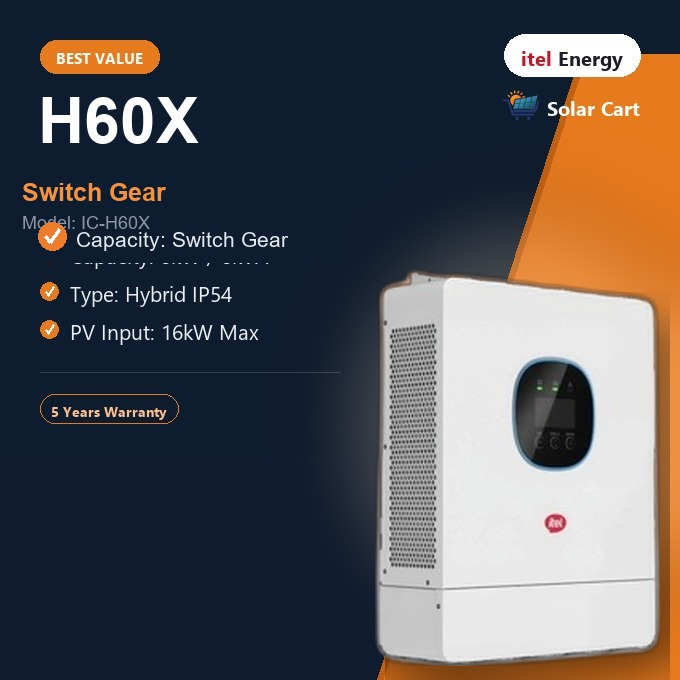
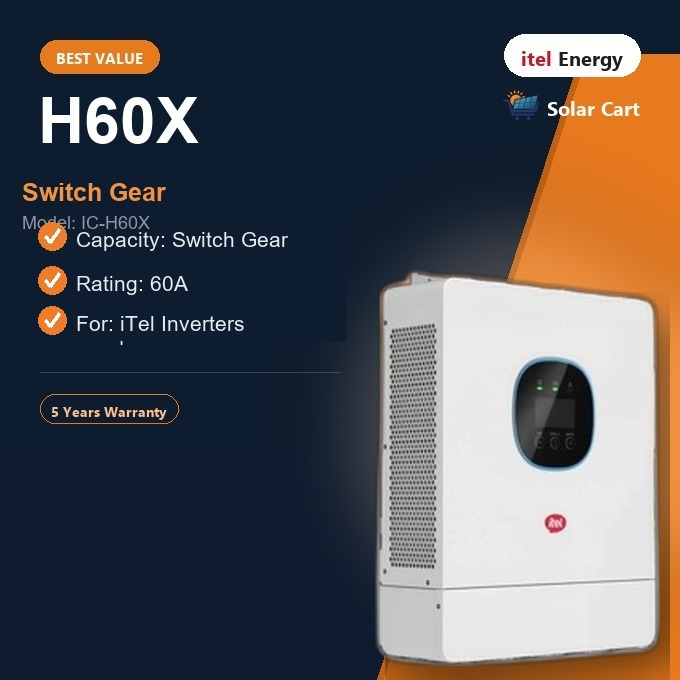
Remove out-of-stock product, fix mismatched product card images
Removed "iTel Combo 3.6kW Hybrid + 8kWh Li-Battery" (out of stock) from
the catalog and api/share.js. Fixed placeholder images that showed
wrong specs: Power Rover no longer shows "500W + 1000Wh ESS" text,
Switch Gear card no longer shows leftover inverter capacity/PV specs,
and the new 2.5kWh battery no longer shows "2.56 kWh".

Changed region(s): [[0.0309, 0.3706, 0.3706, 0.525]]

diff --git a/script.js b/script.js
@@ -23,9 +23,8 @@ const products = [
 
     // ESS Solution (Official iTel images from itelsolar.com)
     { id:16, name:"iTel Energy 500W Power Tank + 1kWh LiFePO4 All-In-One", model:"IESS-05K10N", category:"ess", price:72990, badge:"All-In-One", badgeClass:"best", warranty:"2 Years", image:"https://i0.wp.com/itelsolar.com/wp-content/uploads/2025/04/itel-Energy-500W-Inverter-1kWh-LifePo4-Battery-All-in-One-Solar-Power-System-1.jpg", localImage:"images/itel-ess-500w.jpg", specs:["Output: 500W / 1kWh","Battery: LiFePO4 6000+ Cycles","Ports: AC, USB-C, USB-A"], featured:true, rating:4.9, reviewCount:38 },
-    { id:17, name:"iTel Combo 3.6kW Hybrid + 8kWh Li-Battery", model:"IESS-3K680N", category:"ess", price:360000, badge:"Complete System", badgeClass:"premium", warranty:"5 Years", image:"https://i0.wp.com/itelsolar.com/wp-content/uploads/2025/07/itel-3.6kW-All-in-One-Solar-Power-System-with-8kWh-Battery-Complete-Home-Energy-Storage-Solution-1.jpg", localImage:"images/itel-ess-3k6.jpg", specs:["Inverter: 3.6kW Pure Sine","Battery: 8kWh LiFePO4","UPS Switchover: <16ms"], featured:true, rating:4.7, reviewCount:19 },
     { id:18, name:"iTel Power Go 320Wh Portable Power Station", model:"IESS-320T", category:"ess", price:29999, badge:"Portable", badgeClass:"best", warranty:"2 Years", image:"https://i0.wp.com/itelsolar.com/wp-content/uploads/2026/01/itel-130W-Portable-Power-Station-%E2%80%93-320Wh-Smart-Backup-Power-Solution-IESS-320T.webp", localImage:"images/itel-ess-320.jpg", specs:["Output: 130W / 320Wh","Battery: 100,000mAh LiFePO4","USB-C: 65W Fast Charge"], featured:true, rating:4.8, reviewCount:45 },
-    { id:22, name:"iTel Power Rover Portable Power Station", model:"IESS-ROVER", category:"ess", price:74990, badge:"New", badgeClass:"best", warranty:"2 Years", image:"images/itel-ess-500w.jpg", localImage:"images/itel-ess-500w.jpg", specs:["Battery: LiFePO4","Style: Portable"], featured:false, rating:4.5, reviewCount:0 },
+    { id:22, name:"iTel Power Rover Portable Power Station", model:"IESS-ROVER", category:"ess", price:74990, badge:"New", badgeClass:"best", warranty:"2 Years", image:"images/itel-ess-rover-v6.jpg", localImage:"images/itel-ess-rover-v6.jpg", specs:["Battery: LiFePO4","Style: Portable"], featured:false, rating:4.5, reviewCount:0 },
 
     // Batteries (Official iTel images from itelsolar.com)
     { id:11, name:"iTel 100Ah 12V Lithium Battery 1.28kWh", model:"IPB-12100", category:"battery", price:65000, badge:"", warranty:"5 Years", image:"images/itel-bat100ah-v1.jpg", localImage:"images/itel-bat100ah-v1.jpg", specs:["Capacity: 1.28 kWh","Voltage: 12.8V","Type: LiFePO4 IP54"], featured:false, rating:4.6, reviewCount:14 },
@@ -33,7 +32,7 @@ const products = [
     { id:13, name:"IPL-51100 iTel LiFePO4 Battery 51.2V 100Ah - 5.12kWh IP20", model:"IPL-51100", category:"battery", price:227000, badge:"Popular", badgeClass:"", warranty:"7 Years", image:"images/itel-bat512-v1.jpg", localImage:"images/itel-bat512-v1.jpg", specs:["Capacity: 5.12 kWh","Voltage: 51.2V","Type: LiFePO4 Stackable"], featured:true, rating:4.8, reviewCount:33 },
     { id:14, name:"iTel IPL-51280 51.2V 280Ah (14.33kWh) Lithium Battery", model:"IPL-51280", category:"battery", price:445000, badge:"", warranty:"10 Years", image:"images/itel-bat14kwh-v1.jpg", localImage:"images/itel-bat14kwh-v1.jpg", specs:["Capacity: 14.33 kWh","Voltage: 51.2V","Type: LiFePO4 Standing"], featured:false, rating:4.7, reviewCount:8 },
     { id:15, name:"iTel IPL-51314Y 51.2V 16kWh Lithium Battery", model:"IPL-51314Y", category:"battery", price:590000, badge:"Premium", badgeClass:"premium", warranty:"10 Years", image:"images/itel-bat16kwh-v1.jpg", localImage:"images/itel-bat16kwh-v1.jpg", specs:["Capacity: 16 kWh","Voltage: 51.2V","Type: LiFePO4 Outdoor IP65"], featured:false, rating:4.5, reviewCount:6 },
-    { id:23, name:"iTel IPL-25200X LiFePO4 Battery 2.5kWh", model:"IPL-25200X", category:"battery", price:227000, badge:"New", badgeClass:"best", warranty:"5 Years", image:"images/itel-bat256-v1.jpg", localImage:"images/itel-bat256-v1.jpg", specs:["Capacity: 2.5 kWh","Type: LiFePO4"], featured:false, rating:4.5, reviewCount:0 },
+    { id:23, name:"iTel IPL-25200X LiFePO4 Battery 2.5kWh", model:"IPL-25200X", category:"battery", price:227000, badge:"New", badgeClass:"best", warranty:"5 Years", image:"images/itel-bat25-v1.jpg", localImage:"images/itel-bat25-v1.jpg", specs:["Capacity: 2.5 kWh","Type: LiFePO4"], featured:false, rating:4.5, reviewCount:0 },
     { id:24, name:"iTel Battery-51100 X-G1 51.2V Lithium Battery", model:"51100-X-G1", category:"battery", price:245000, badge:"New", badgeClass:"best", warranty:"7 Years", image:"images/itel-bat512-v1.jpg", localImage:"images/itel-bat512-v1.jpg", specs:["Voltage: 51.2V","Type: LiFePO4"], featured:false, rating:4.5, reviewCount:0 }
 ];
 
@@ -144,7 +143,7 @@ function toggleCart() {
 }
 
 // ==================== INVENTORY ====================
-const DEFAULT_OUT_OF_STOCK_IDS = [17];
+const DEFAULT_OUT_OF_STOCK_IDS = [];
 function initInventory() {
     const inv = {};
     products.forEach(p => { inv[p.id] = DEFAULT_OUT_OF_STOCK_IDS.includes(p.id) ? 0 : 100; });

diff --git a/api/share.js b/api/share.js
@@ -19,12 +19,11 @@ const products = [
   { id:13, name:"IPL-51100 iTel LiFePO4 Battery 51.2V 100Ah - 5.12kWh IP20", price:227000, warranty:"7 Years", image:"https://solar-cart-apvs.vercel.app/images/itel-bat512-v1.jpg", specs:["Capacity: 5.12 kWh","Voltage: 51.2V","Type: LiFePO4 Stackable"] },
   { id:14, name:"iTel IPL-51280 51.2V 280Ah (14.33kWh) Lithium Battery", price:445000, warranty:"10 Years", image:"https://solar-cart-apvs.vercel.app/images/itel-bat14kwh-v1.jpg", specs:["Capacity: 14.33 kWh","Voltage: 51.2V","Type: LiFePO4 Standing"] },
   { id:15, name:"iTel IPL-51314Y 51.2V 16kWh Lithium Battery", price:590000, warranty:"10 Years", image:"https://solar-cart-apvs.vercel.app/images/itel-bat16kwh-v1.jpg", specs:["Capacity: 16 kWh","Voltage: 51.2V","Type: LiFePO4 Outdoor IP65"] },
-  { id:23, name:"iTel IPL-25200X LiFePO4 Battery 2.5kWh", price:227000, warranty:"5 Years", image:"https://solar-cart-apvs.vercel.app/images/itel-bat256-v1.jpg", specs:["Capacity: 2.5 kWh","Type: LiFePO4"] },
+  { id:23, name:"iTel IPL-25200X LiFePO4 Battery 2.5kWh", price:227000, warranty:"5 Years", image:"https://solar-cart-apvs.vercel.app/images/itel-bat25-v1.jpg", specs:["Capacity: 2.5 kWh","Type: LiFePO4"] },
   { id:24, name:"iTel Battery-51100 X-G1 51.2V Lithium Battery", price:245000, warranty:"7 Years", image:"https://solar-cart-apvs.vercel.app/images/itel-bat512-v1.jpg", specs:["Voltage: 51.2V","Type: LiFePO4"] },
   { id:16, name:"iTel Energy 500W Power Tank + 1kWh LiFePO4 All-In-One", price:72990, warranty:"2 Years", image:"https://i0.wp.com/itelsolar.com/wp-content/uploads/2025/04/itel-Energy-500W-Inverter-1kWh-LifePo4-Battery-All-in-One-Solar-Power-System-1.jpg", specs:["Output: 500W / 1kWh","Battery: LiFePO4 6000+ Cycles","Ports: AC, USB-C, USB-A"] },
-  { id:17, name:"iTel Combo 3.6kW Hybrid + 8kWh Li-Battery", price:360000, warranty:"5 Years", image:"https://i0.wp.com/itelsolar.com/wp-content/uploads/2025/07/itel-3.6kW-All-in-One-Solar-Power-System-with-8kWh-Battery-Complete-Home-Energy-Storage-Solution-1.jpg", specs:["Inverter: 3.6kW Pure Sine","Battery: 8kWh LiFePO4","UPS Switchover: <16ms"] },
   { id:18, name:"iTel Power Go 320Wh Portable Power Station", price:29999, warranty:"2 Years", image:"https://i0.wp.com/itelsolar.com/wp-content/uploads/2026/01/itel-130W-Portable-Power-Station-%E2%80%93-320Wh-Smart-Backup-Power-Solution-IESS-320T.webp", specs:["Output: 130W / 320Wh","Battery: 100,000mAh LiFePO4","USB-C: 65W Fast Charge"] },
-  { id:22, name:"iTel Power Rover Portable Power Station", price:74990, warranty:"2 Years", image:"https://solar-cart-apvs.vercel.app/images/itel-ess-500w.jpg", specs:["Battery: LiFePO4","Style: Portable"] }
+  { id:22, name:"iTel Power Rover Portable Power Station", price:74990, warranty:"2 Years", image:"https://solar-cart-apvs.vercel.app/images/itel-ess-rover-v6.jpg", specs:["Battery: LiFePO4","Style: Portable"] }
 ];
 
 export default function handler(req, res) {
